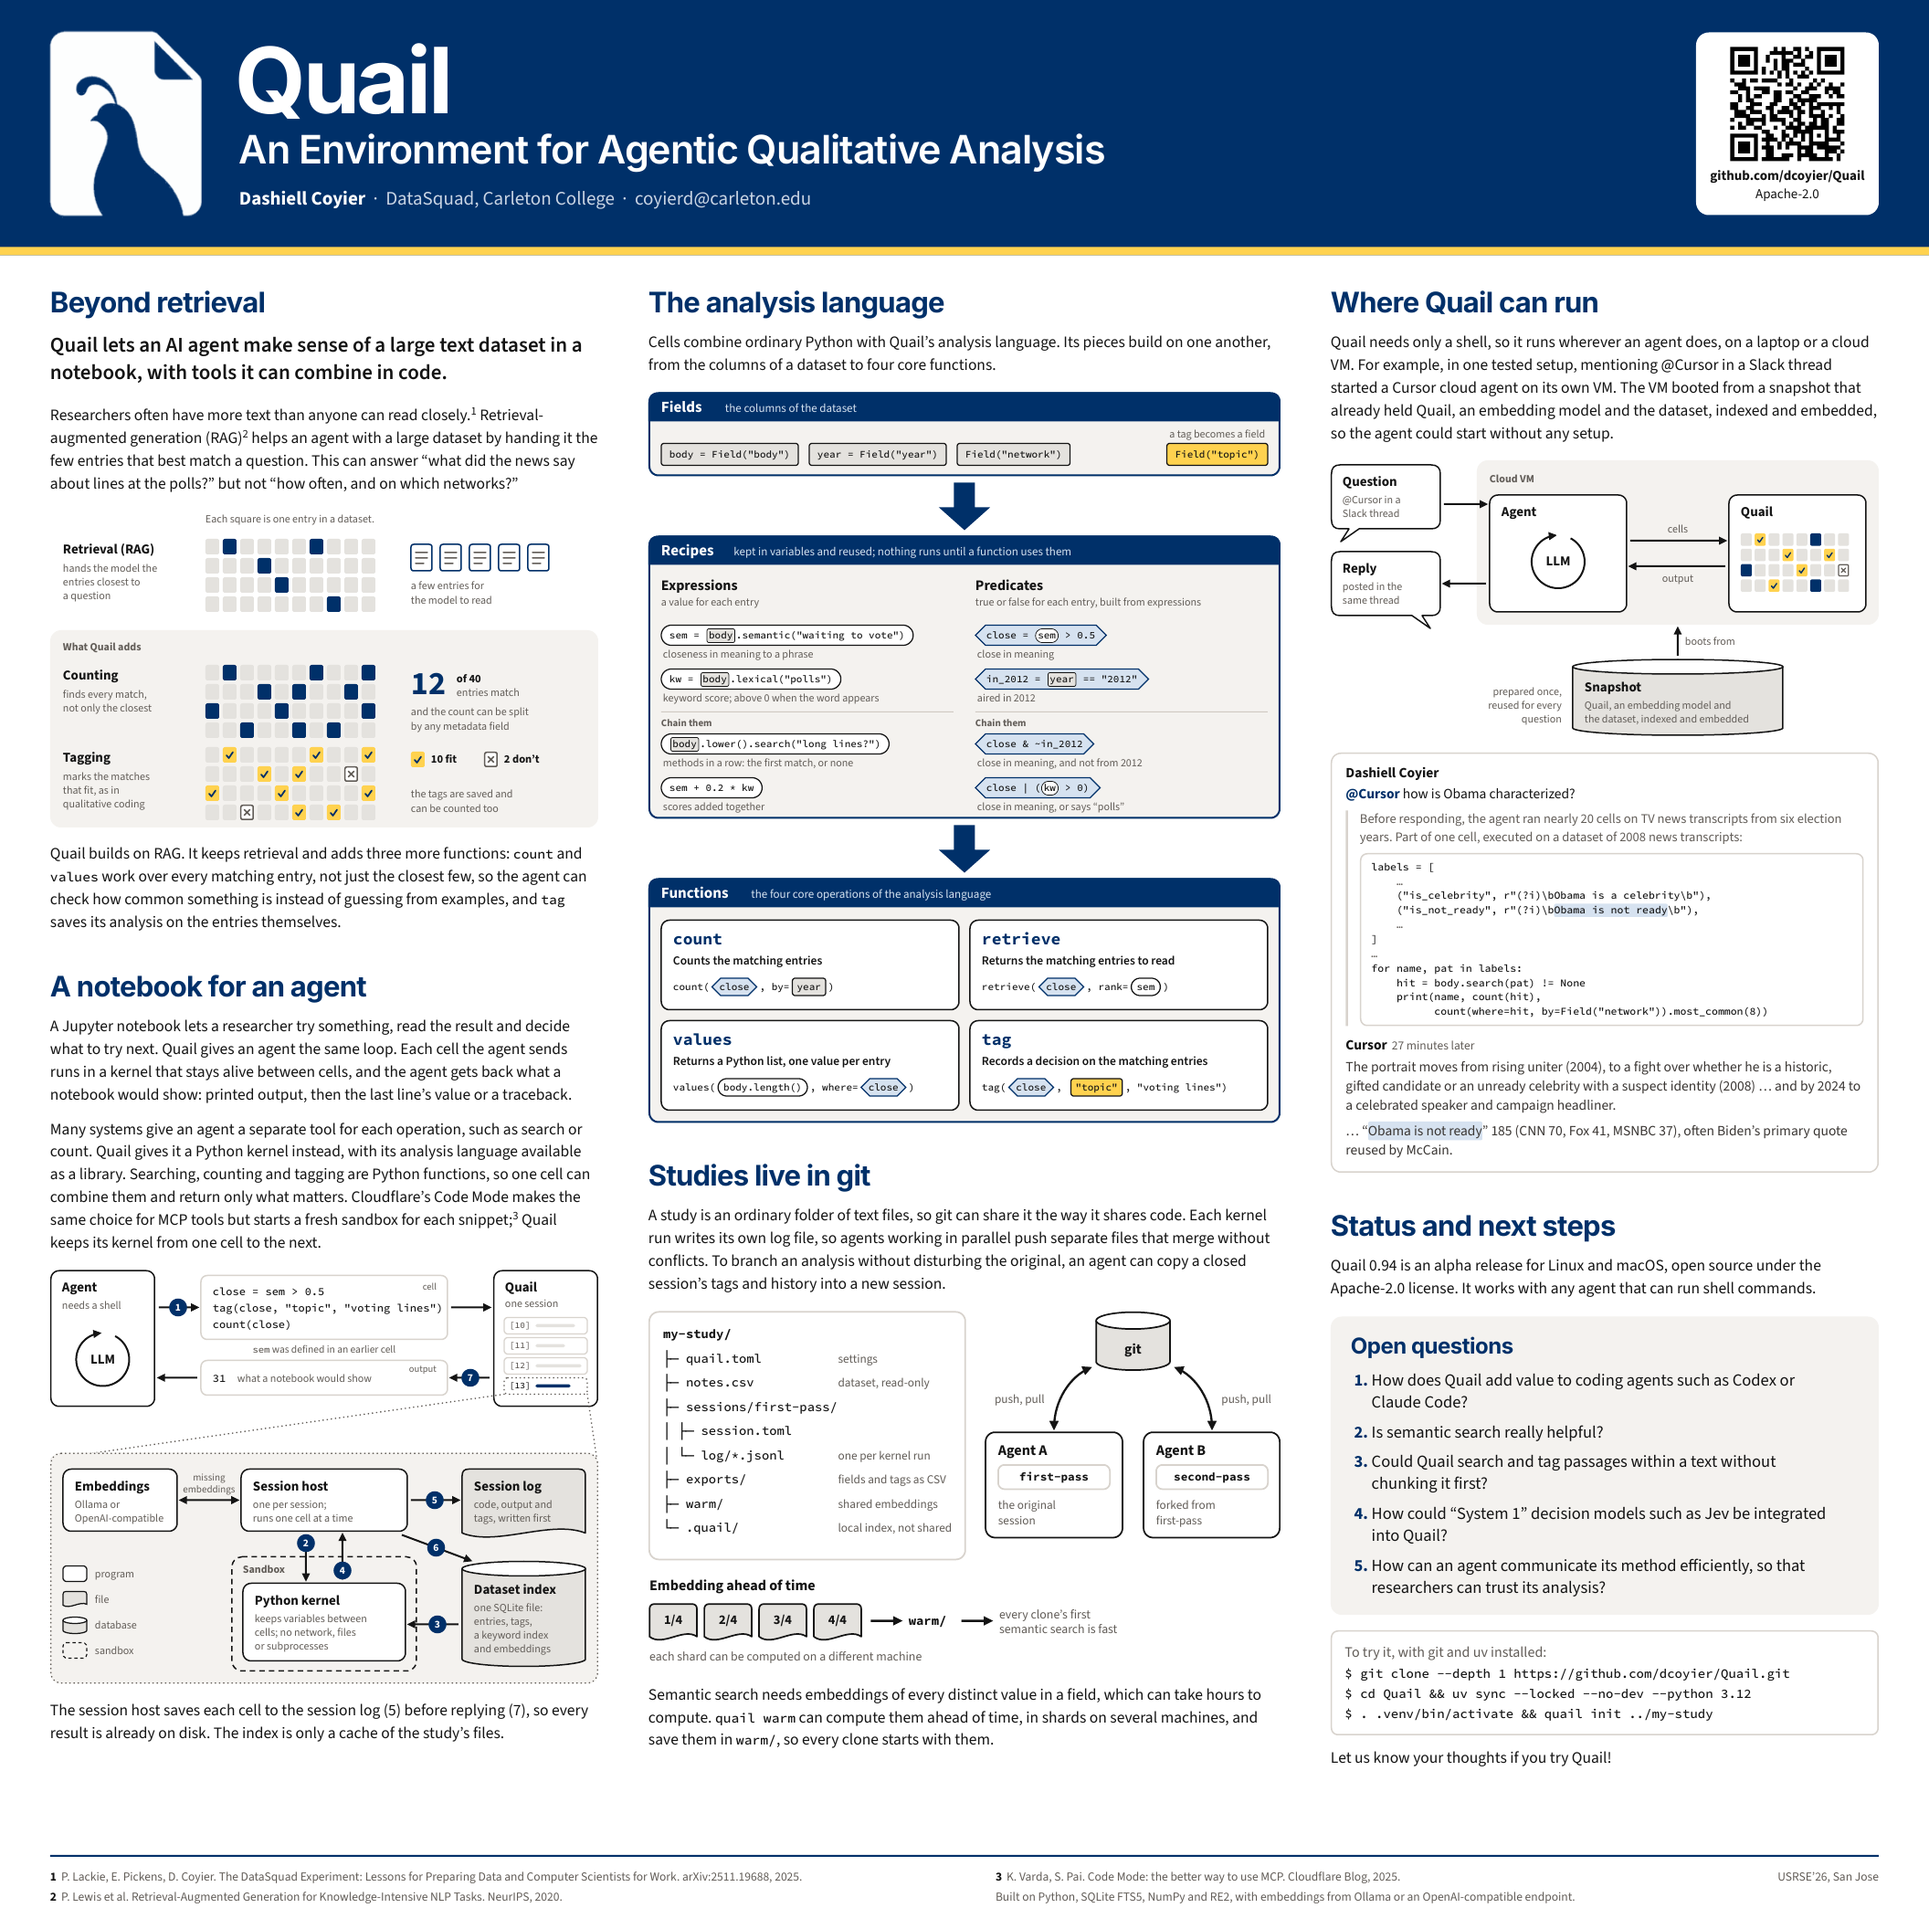
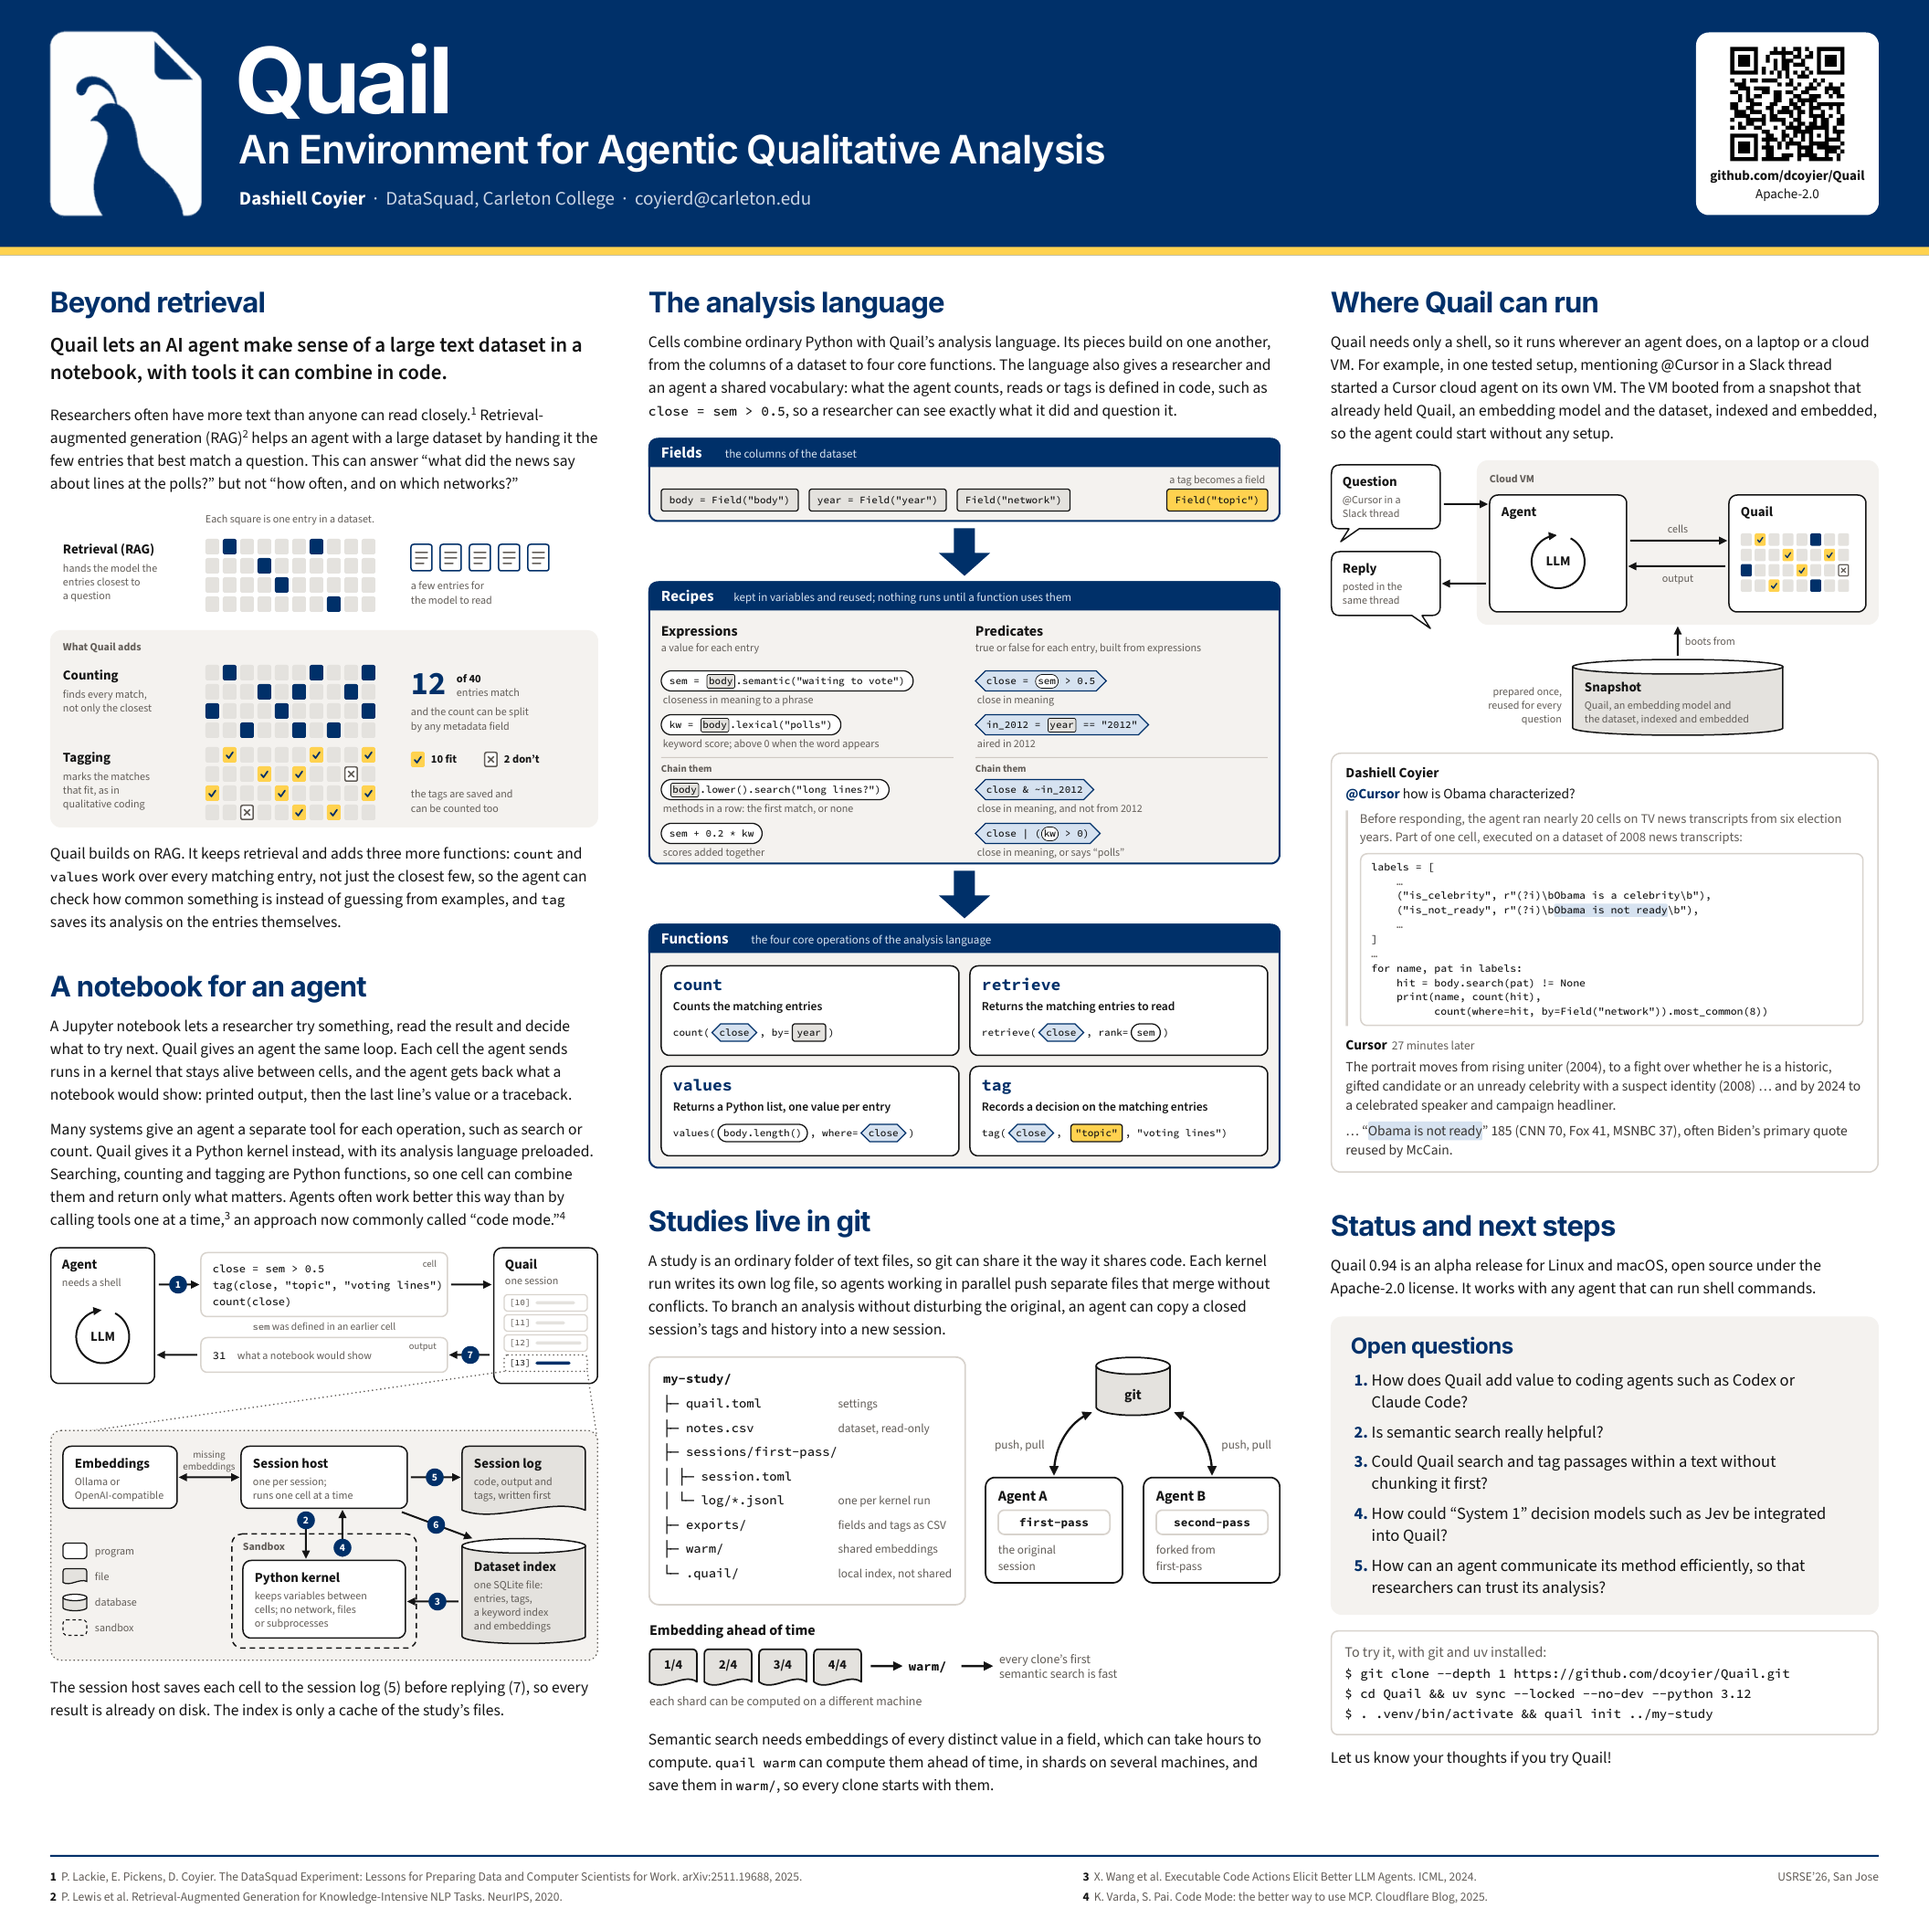
Frame code mode as a general idea and add a sentence on shared vocabulary
Code actions come from CodeAct (now reference 3), and Cloudflare's post
(now reference 4) named the idea "code mode". The comparison with a fresh
sandbox per snippet is gone, since keeping interpreter state is not new:
Ronacher's 2025 single-tool MCP server already kept it. The analysis
language is "preloaded", since cells never import it. The language section
now says that what the agent counts, reads or tags is defined in code. The
"Built on" note leaves the footer to make room.

Claude-Session: https://claude.ai/code/session_01ChZ8DmmKvsKSV4JFVieZLU

Changed region(s): [[0.0312, 0.1875, 0.6875, 0.9375], [0.5312, 0.9688, 0.7812, 1.0]]

diff --git a/poster/poster.html b/poster/poster.html
@@ -35,7 +35,7 @@
 <section id="notebook">
   <h2>A notebook for an agent</h2>
   <p>A Jupyter notebook lets a researcher try something, read the result and decide what to try next. Quail gives an agent the same loop. Each cell the agent sends runs in a kernel that stays alive between cells, and the agent gets back what a notebook would show: printed output, then the last line&rsquo;s value or a traceback.</p>
-  <p>Many systems give an agent a separate tool for each operation, such as search or count. Quail gives it a Python kernel instead, with its analysis language available as a library. Searching, counting and tagging are Python functions, so one cell can combine them and return only what matters. Cloudflare&rsquo;s Code Mode makes the same choice for MCP tools but starts a fresh sandbox for each snippet;<sup>3</sup> Quail keeps its kernel from one cell to the next.</p>
+  <p>Many systems give an agent a separate tool for each operation, such as search or count. Quail gives it a Python kernel instead, with its analysis language preloaded. Searching, counting and tagging are Python functions, so one cell can combine them and return only what matters. Agents often work better this way than by calling tools one at a time,<sup>3</sup> an approach now commonly called &ldquo;code mode.&rdquo;<sup>4</sup></p>
   <figure><img src="figures/loop.svg" alt="The agent sends cell 13 to Quail and reads back its output. Inside Quail, a session host passes the cell to a sandboxed Python kernel, which reads the SQLite dataset index and returns its result; the host writes the cell and its result to the session log, then updates the index and replies. Numbered arrows mark the seven steps; missing embeddings come from an embedding model"></figure>
   <p>The session host saves each cell to the session log (5) before replying (7), so every result is already on disk. The index is only a cache of the study&rsquo;s files.</p>
 </section>
@@ -46,7 +46,7 @@
 
 <section id="language">
   <h2>The analysis language</h2>
-  <p>Cells combine ordinary Python with Quail&rsquo;s analysis language. Its pieces build on one another, from the columns of a dataset to four core functions.</p>
+  <p>Cells combine ordinary Python with Quail&rsquo;s analysis language. Its pieces build on one another, from the columns of a dataset to four core functions. The language also gives a researcher and an agent a shared vocabulary: what the agent counts, reads or tags is defined in code, such as <code>close = sem &gt; 0.5</code>, so a researcher can see exactly what it did and question&nbsp;it.</p>
   <figure><img src="figures/language.svg" alt="The analysis language in three levels. Fields, the columns of the dataset, such as body, year and network, build recipes: expressions, a value for each entry, such as a semantic or keyword score, and predicates, true or false for each entry, such as close = sem &gt; 0.5. Recipes are kept in variables and nothing runs until a function uses them. They plug into four functions: count, retrieve, values and tag. Tag writes a new field, such as topic, that can be used like any other"></figure>
 </section>
 
@@ -115,9 +115,9 @@ $ . .venv/bin/activate &amp;&amp; quail init ../my-study</div>
 <footer>
   <ol>
     <li><span>1</span>P. Lackie, E. Pickens, D. Coyier. The DataSquad Experiment: Lessons for Preparing Data and Computer Scientists for Work. arXiv:2511.19688, 2025.</li>
-    <li><span>3</span>K. Varda, S. Pai. Code Mode: the better way to use MCP. Cloudflare Blog, 2025.</li>
+    <li><span>3</span>X. Wang et al. Executable Code Actions Elicit Better LLM Agents. ICML, 2024.</li>
     <li><span>2</span>P. Lewis et al. Retrieval-Augmented Generation for Knowledge-Intensive NLP Tasks. NeurIPS, 2020.</li>
-    <li>Built on Python, SQLite FTS5, NumPy and RE2, with embeddings from Ollama or an OpenAI-compatible endpoint.</li>
+    <li><span>4</span>K. Varda, S. Pai. Code Mode: the better way to use MCP. Cloudflare Blog, 2025.</li>
   </ol>
   <div class="right">USRSE&rsquo;26, San Jose</div>
 </footer>
